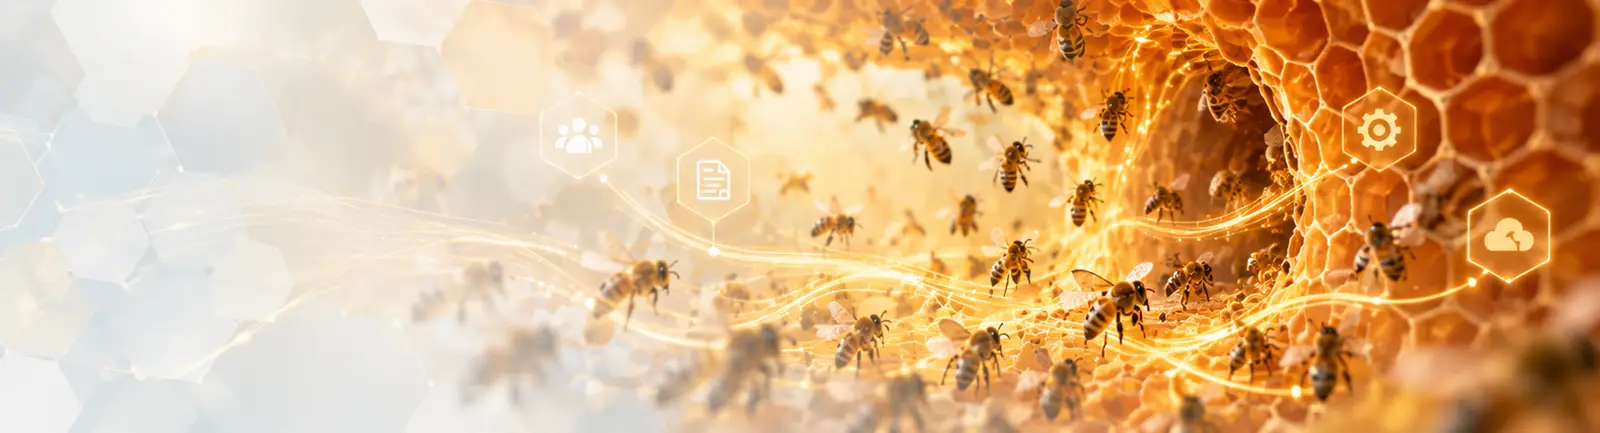
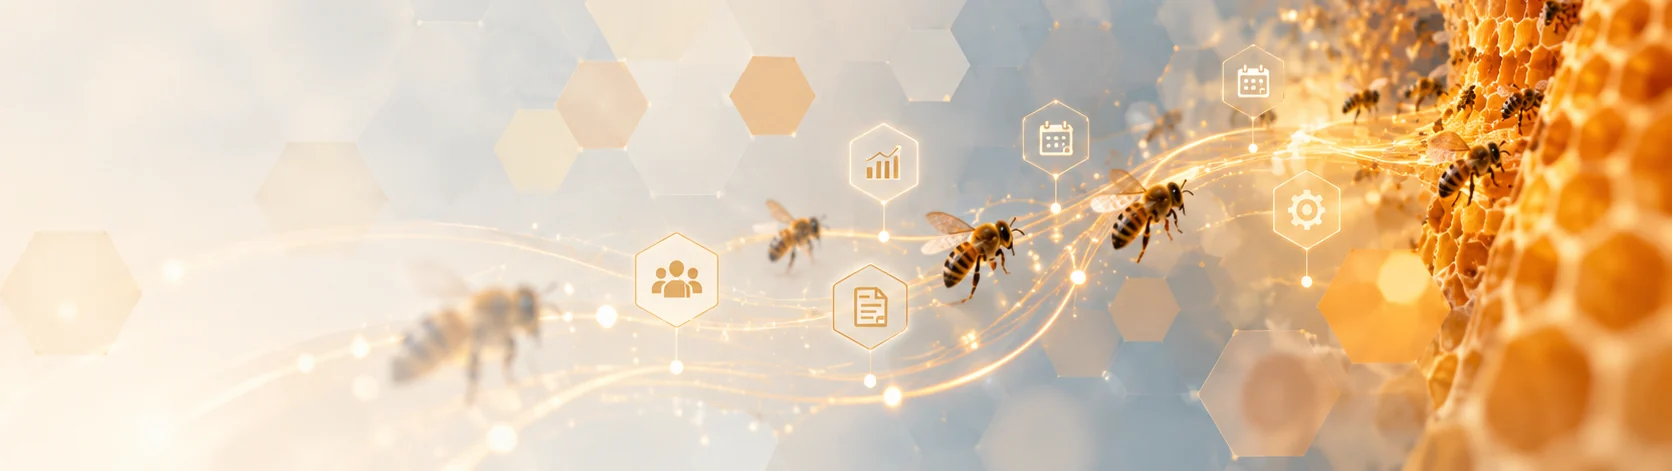
Add files via upload
Website update 4

diff --git a/assets/flow.js b/assets/flow.js
@@ -4,6 +4,9 @@ const hexPts=(cx,cy,r)=>[...Array(6)].map((_,i)=>{const a=Math.PI/180*(60*i-30);
 const G={people:{name:'People',color:'#F4B400',text:'#1b1b1b',msg:'Children, the care team, families and social workers. Each person sees what they are allowed to see and does their part, in one place.',cells:['Children','Care team','Families|& partners']},
 info:{name:'Information',color:'#2F5F94',text:'#fff',msg:'Enter it once and it flows to every place it is needed: the child’s record, documents, case notes and the reports built from them.',cells:['Child|record','Documents','Case notes']},
 proc:{name:'Processes',color:'#F7931E',text:'#1b1b1b',msg:'Admission, IDP, MDT meetings and reviews, through to reunification. Due dates and traffic lights keep every step moving.',cells:['Admission','IDP & MDT','Reunification']}};
+const DET={people:[['Children','Every child has one record: personal details, documents, family, learning, wellbeing and history, in one place.','Children','person'],['Care team','Care workers, therapists and other staff each sign in with their own role and see only what that role allows.','Care|team','team'],['Families & partners','Family contacts and schools are kept with the child, including visits, consents and out-weekends.','Families|& partners','family'],['Social workers','The child’s social worker is recorded on the record, so court dates, reviews and reports always point to the right person.','Social|workers','social'],['Host parents','Host parents and their placements are kept with the family information, next to the child they care for.','Host|parents','host'],['Managers','Administrators set up users and roles, decide who sees what, and see what needs attention on the dashboard.','Managers','manager']],
+info:[['Child record','Details, history and a traffic-light summary for each area. Enter it once and it shows wherever it is needed.','Child|record','record'],['Documents','Court orders, reports and other papers are stored with the child they belong to, not in a separate filing cabinet.','Documents','doc'],['Case notes','Notes, incidents and visits record who wrote them and when. Nothing is deleted, only voided with a reason.','Case|notes','notes'],['Education','School, extra-murals and school reports, including importing a school report instead of typing it in.','Education','edu'],['Health & wellbeing','Medical, therapy and behaviour records. Health details are only shown to people who hold the Medical privilege.','Health &|wellbeing','heart'],['Reports','Ready-made reports and printouts, Excel export, and an optional Report Builder that drafts MDT, panel and DSD reports.','Reports','chart']],
+proc:[['Admission','Admission steps and consents are completed once and carry straight into the child’s record.','Admission','door'],['IDP','Individual development plans have review dates that show as green, amber or red, so nothing is forgotten.','IDP','flag'],['MDT meetings','Multidisciplinary team meetings are planned and recorded, with an optional drafted meeting pack from the child’s record.','MDT|meetings','mdt'],['Court orders','Court orders and their dates are tracked with the child, so a renewal never sneaks up on you.','Court|orders','scales'],['Out-weekends','Out-weekends and visits are planned and recorded, with family contact kept alongside.','Out-|weekends','cal'],['Reunification','The path home is planned and followed step by step until the child goes back to family.','Reunifi-|cation','home']]};
 window.HIVLO_GROUPS=G;
 // hero art
 const h=document.getElementById('heroart');
@@ -12,36 +15,70 @@ if(h){const R=62,cx=200,cy=200;S('polygon',{points:hexPts(cx,cy,R+4),fill:'#F4B4
  const t2=S('text',{x:cx,y:cy+22,'text-anchor':'middle','font-size':12,fill:'#0B2A4A','font-family':'system-ui'},h);t2.textContent='one record';
  const W=Math.sqrt(3)*(R+4)+6,cols=['#F4B400','#2F5F94','#F7931E','#F4B400','#2F5F94','#F7931E'];
  for(let i=0;i<6;i++){const a=Math.PI/180*(60*i);const x=cx+W*Math.cos(a),y=cy+W*Math.sin(a);S('polygon',{points:hexPts(x,y,R-6),fill:cols[i],opacity:.9},h)}
- const beeO=S('g',{transform:'translate(335 62) rotate(-18) scale(1.1)'},h);const bee=S('g',{class:'bee'},beeO);
+ const FP='M340,60 C300,8 180,8 120,50 C40,100 20,200 60,280 C100,360 240,385 320,330 C385,285 385,160 300,130 C240,108 200,150 200,200 C200,250 252,262 282,220 C312,172 362,110 340,60Z';
+ S('path',{d:FP,fill:'none',stroke:'#F4B400','stroke-width':2,'stroke-dasharray':'2 9','stroke-linecap':'round',opacity:.55},h);
+ const beeO=S('g',{},h);S('animateMotion',{dur:'18s',repeatCount:'indefinite',path:FP,calcMode:'spline',keyTimes:'0;1',keySplines:'.2 0 .8 1'},beeO);
+ const beeS=S('g',{transform:'rotate(-8) scale(.8)'},beeO);const bee=S('g',{class:'bee'},beeS);
  bee.innerHTML='<path d="M-34 4Q-52-22-30-36Q-12-24-10-2z" fill="#e9f3ff" stroke="#0B2A4A" stroke-width="3.5" transform="translate(6 -6)"/><path d="M-8-6Q-12-34 12-40Q26-26 14-4z" fill="#e9f3ff" stroke="#0B2A4A" stroke-width="3.5"/><ellipse cx="0" cy="8" rx="30" ry="22" fill="#F4B400" stroke="#0B2A4A" stroke-width="3.5"/><path d="M-10-12Q-14 8-8 28M6-13Q3 8 8 28" stroke="#0B2A4A" stroke-width="7" fill="none" stroke-linecap="round"/><circle cx="31" cy="1" r="13" fill="#0B2A4A"/><circle cx="35" cy="-2" r="3.2" fill="#fff"/><path d="M36-11q4-12 12-12M30-12q0-13 7-17" stroke="#0B2A4A" stroke-width="3" fill="none" stroke-linecap="round"/>'}
 // hive
 const svg=document.getElementById('hive');if(!svg)return;
-const C={x:500,y:330},D=235,R=56,off=60;
-const spec=[['people',-90,[90,210,330]],['info',30,[270,30,150]],['proc',150,[270,30,150]]];
+const ICON={person:'c:12,8,3.4~M5.5 20c0-3.8 2.9-6.2 6.5-6.2s6.5 2.4 6.5 6.2',team:'c:12,8,3~c:5,10.5,2.2~c:19,10.5,2.2~M6.5 19c0-3 2.4-5 5.5-5s5.5 2 5.5 5~M1.5 18c0-2 1.3-3.4 3.2-3.8~M22.5 18c0-2-1.3-3.4-3.2-3.8',family:'c:8,8,2.6~c:16,8,2.6~c:12,15,2~M3.5 18c0-3 2-4.5 4.5-4.5~M20.5 18c0-3-2-4.5-4.5-4.5~M9 21c0-2 1.3-3 3-3s3 1 3 3',social:'c:10,8,3~M4 20c0-3.4 2.6-5.6 6-5.6~M14.5 17l2.2 2.2 4.3-4.6',host:'M3 12l9-8 9 8~M5.5 10.5V20h13v-9.5~c:12,14,2~M8.5 20c0-2 1.5-3 3.5-3s3.5 1 3.5 3',manager:'M12 3l7.5 3v5.5c0 4.5-3 7.8-7.5 9.5-4.5-1.7-7.5-5-7.5-9.5V6z~M8.5 12l2.5 2.5 4.5-5',record:'r:3.5,5,17,14,2~c:9,11,2.2~M6 17c.4-2 5.2-2 6 0~M14 10h4~M14 14h4',doc:'M7 3h7l5 5v13H7z~M14 3v5h5~M10 13h6~M10 17h6',notes:'M4 6h11~M4 11h7~M4 16h5~M13 19l1-4 6-6 3 3-6 6z',edu:'M2 9l10-5 10 5-10 5z~M6 11.5v4c0 1.5 2.7 3 6 3s6-1.5 6-3v-4~M22 9v6',heart:'M12 20.5s-8.5-5-8.5-11A4.6 4.6 0 0 1 12 7a4.6 4.6 0 0 1 8.5 2.5c0 6-8.5 11-8.5 11z',chart:'M4 4v16h16~M8 16v-5~M12 16V8~M16 16v-3',door:'M10 4h8v16h-8~M3 12h10~M10 9l3 3-3 3',flag:'M6 21V4~M6 4h11l-2 4 2 4H6',mdt:'c:12,6,2.6~c:5.5,17,2.6~c:18.5,17,2.6~M10.5 8l-3.6 7~M13.5 8l3.6 7~M8.2 17h7.6',scales:'M12 4v16~M7 20h10~M5 8h14~M5 8l-2.5 6a3 3 0 0 0 5 0z~M19 8l-2.5 6a3 3 0 0 0 5 0z',cal:'r:4,6,16,14,2~M4 10h16~M8 4v4~M16 4v4',home:'M3 12l9-8 9 8~M6 10.5V20h12v-9.5~M10 20v-5h4v5'};
+const defs=S('defs',{},svg);
+const gl=S('filter',{id:'glow',x:'-30%',y:'-30%',width:'160%',height:'160%'},defs);S('feGaussianBlur',{in:'SourceGraphic',stdDeviation:4,result:'b'},gl);const fm=S('feMerge',{},gl);S('feMergeNode',{in:'b'},fm);S('feMergeNode',{in:'SourceGraphic'},fm);
+Object.keys(G).forEach(k=>{const rg=S('radialGradient',{id:'g-'+k,cx:'50%',cy:'40%',r:'75%'},defs);S('stop',{offset:'0%','stop-color':G[k].color,'stop-opacity':.55},rg);S('stop',{offset:'100%','stop-color':'#0B2A4A','stop-opacity':.95},rg)});
+const rgc=S('radialGradient',{id:'g-centre',cx:'50%',cy:'50%',r:'70%'},defs);S('stop',{offset:'0%','stop-color':'#1d4a78'},rgc);S('stop',{offset:'100%','stop-color':'#0B2A4A'},rgc);
+const C={x:500,y:395},D=265,R=44,off=R*1.732+4;
+const spec=[['people',-90],['info',30],['proc',150]];
 const rad=a=>a*Math.PI/180;
-spec.forEach(([k,ang,dirs])=>{const g=G[k],x0=C.x+D*Math.cos(rad(ang)),y0=C.y+D*Math.sin(rad(ang));
+spec.forEach(([k,ang])=>{const g=G[k],x0=C.x+D*Math.cos(rad(ang)),y0=C.y+D*Math.sin(rad(ang));
  const grp=S('g',{'data-g':k,class:'cell'},svg);
- // flow paths (curved, slightly bowed)
  const mx=(x0+C.x)/2+ (k==='info'?-30:k==='proc'?30:0),my=(y0+C.y)/2;
  const pid='p-'+k,fw=S('path',{id:pid,d:`M${x0},${y0} Q${mx},${my} ${C.x},${C.y}`,fill:'none',stroke:g.color,'stroke-width':3,'stroke-dasharray':'2 9','stroke-linecap':'round',opacity:.7},grp);
  const rv=S('path',{id:pid+'r',d:`M${C.x},${C.y} Q${mx},${my} ${x0},${y0}`,fill:'none',stroke:'none'},grp);
  [[pid,0],[pid+'r',1.6]].forEach(([id,b])=>{const d=S('circle',{r:6,fill:g.color,stroke:'#fff','stroke-width':2,class:'dot'},grp);const m=S('animateMotion',{dur:'3.2s',repeatCount:'indefinite',begin:b+'s'},d);S('mpath',{href:'#'+id},m)});
- dirs.forEach((d,i)=>{const x=x0+off*Math.cos(rad(d)),y=y0+off*Math.sin(rad(d));
-  S('polygon',{points:hexPts(x,y,R),fill:g.color,stroke:'#fff','stroke-width':3},grp);
-  const parts=g.cells[i].split('|');parts.forEach((p,j)=>{const t=S('text',{x,y:y+4+(j-(parts.length-1)/2)*16,'text-anchor':'middle','font-size':14,'font-weight':700,fill:g.text},grp);t.textContent=p})});
- const lab=S('text',{x:x0,y:y0+(ang===-90?-100:ang===30?100:100),'text-anchor':'middle','font-size':0},grp)});
+ // cluster label hex in the middle
+ S('polygon',{points:hexPts(x0,y0,R),fill:g.color,stroke:'#FFD54A','stroke-width':3,filter:'url(#glow)'},grp);
+ const lt=S('text',{x:x0,y:y0+5,'text-anchor':'middle','font-size':14,'font-weight':800,fill:k==='info'?'#fff':'#0B2A4A'},grp);lt.textContent=g.name==='Information'?'Info':g.name;
+ [0,60,120,180,240,300].forEach((d,i)=>{const x=x0+off*Math.cos(rad(d)),y=y0+off*Math.sin(rad(d));
+  const pg=S('g',{class:'hxg'},grp),pop=S('g',{class:'pop'},pg);
+  S('polygon',{points:hexPts(x,y,R),fill:'url(#g-'+k+')',stroke:'#F4B400','stroke-width':2.5,filter:'url(#glow)',class:'hxp'},pop);
+  const ic=S('g',{transform:`translate(${x-8.6} ${y-28}) scale(.72)`,fill:'none',stroke:'#FFD54A','stroke-width':1.9,'stroke-linecap':'round','stroke-linejoin':'round'},pop);
+  (ICON[DET[k][i][3]]||'').split('~').forEach(sh=>{if(!sh)return;if(sh.startsWith('c:')){const [cx,cy,r]=sh.slice(2).split(',');S('circle',{cx,cy,r},ic)}else if(sh.startsWith('r:')){const [rx,ry,w,h,rr]=sh.slice(2).split(',');S('rect',{x:rx,y:ry,width:w,height:h,rx:rr},ic)}else S('path',{d:sh},ic)});
+  const parts=DET[k][i][2].split('|'),base=y+(parts.length===1?14:8);
+  parts.forEach((p,j)=>{const t=S('text',{x,y:base+j*12,'text-anchor':'middle','font-size':11,'font-weight':700,fill:'#fff'},pop);t.textContent=p});
+  const hit=S('polygon',{points:hexPts(x,y,R),fill:'rgba(0,0,0,0)',class:'hx','data-k':k,'data-i':i,tabindex:0,role:'button','aria-label':DET[k][i][0]+': '+DET[k][i][1]},pg);
+  hit._pop=pop;hit._x=x;hit._y=y;hit._dx=Math.cos(rad(d))*16;hit._dy=Math.sin(rad(d))*16;
+  hit.addEventListener('pointerenter',()=>hot(hit));hit.addEventListener('pointerleave',()=>cool());hit.addEventListener('focus',()=>hot(hit));hit.addEventListener('blur',()=>cool());
+  hit.onclick=()=>{hot(hit);pick(k,i)};hit.onkeydown=e=>{if(e.key==='Enter'||e.key===' '){e.preventDefault();pick(k,i)}}});});
+
+const tip=document.createElement('div');tip.className='hxtip';tip.hidden=true;svg.parentNode.style.position='relative';svg.parentNode.appendChild(tip);
+const top=S('g',{style:'pointer-events:none'},svg);let cur=null;
+function hot(h){if(cur===h)return;cool();cur=h;const k=h.dataset.k,i=h.dataset.i;h.parentNode.classList.add('hot');
+ const c=h._pop.cloneNode(true);c.classList.add('lift');c.style.setProperty('--dx',h._dx+'px');c.style.setProperty('--dy',h._dy+'px');top.appendChild(c);requestAnimationFrame(()=>requestAnimationFrame(()=>c.classList.add('go')));
+ tip.textContent='';const t=document.createElement('strong');t.textContent=DET[k][i][0];const p=document.createElement('span');p.textContent=DET[k][i][1];tip.append(t,p);tip.style.borderLeftColor=G[k].color;tip.hidden=false;
+ const sr=svg.getBoundingClientRect(),pr=svg.parentNode.getBoundingClientRect(),sc=sr.width/1000;
+ const cx=sr.left-pr.left+(h._x+h._dx)*sc,cy=sr.top-pr.top+(h._y+h._dy+30)*sc,w=Math.min(270,pr.width-24);tip.style.width=w+'px';
+ const hw=44*1.2*sc,right=cx<pr.width/2;let left=right?cx+hw+10:cx-hw-10-w;left=Math.max(8,Math.min(pr.width-w-8,left));
+ tip.style.left=left+'px';tip.style.top=Math.max(8,Math.min(pr.height-tip.offsetHeight-8,cy-tip.offsetHeight/2))+'px'}
+function cool(){if(!cur)return;cur.parentNode.classList.remove('hot');cur=null;top.textContent='';tip.hidden=true}
+document.addEventListener('pointerdown',e=>{if(!svg.contains(e.target))cool()});
 // centre
-const ctr=S('g',{},svg);S('polygon',{points:hexPts(C.x,C.y,78),fill:'#0B2A4A',stroke:'#F4B400','stroke-width':5},ctr);
+const ctr=S('g',{},svg);S('polygon',{points:hexPts(C.x,C.y,78),fill:'url(#g-centre)',stroke:'#FFD54A','stroke-width':4,filter:'url(#glow)'},ctr);
 let t=S('text',{x:C.x,y:C.y-4,'text-anchor':'middle','font-size':22,'font-weight':800,fill:'#F4B400'},ctr);t.textContent='HIVLO CMP';
 t=S('text',{x:C.x,y:C.y+18,'text-anchor':'middle','font-size':12,fill:'#cfdcf5'},ctr);t.textContent='one connected record';
 // buttons + mobile list
 const bar=document.getElementById('flowbtns'),msg=document.getElementById('flowmsg'),list=document.getElementById('flowlist');
-function pick(k){bar.querySelectorAll('button').forEach(b=>b.setAttribute('aria-pressed',String(b.dataset.k===k)));
+function pick(k,i){bar.querySelectorAll('button').forEach(b=>b.setAttribute('aria-pressed',String(b.dataset.k===k)));
  svg.querySelectorAll('.cell').forEach(c=>c.classList.toggle('dim',k!=='all'&&c.dataset.g!==k));
- msg.textContent=k==='all'?'Choose People, Information or Processes to see how each one flows through HIVLO CMP.':G[k].msg}
+ svg.querySelectorAll('.hx').forEach(h=>h.parentNode.classList.toggle('sel',h.dataset.k===k&&String(h.dataset.i)===String(i)));
+ msg.textContent='';
+ if(k==='all'){msg.textContent='Choose People, Information or Processes, or click any hexagon, to see how it flows through HIVLO CMP.';return}
+ const p=document.createElement('span');p.textContent=G[k].msg;msg.appendChild(p);
+ if(i!==undefined){const d=document.createElement('span');d.className='cdet';const st=document.createElement('strong');st.textContent=DET[k][i][0];d.appendChild(st);d.appendChild(document.createTextNode(' '+DET[k][i][1]));msg.appendChild(d)}
+ else{const d=document.createElement('span');d.className='cdet hint';d.textContent='Click a hexagon for more detail.';msg.appendChild(d)}}
 [['all','All']].concat(Object.keys(G).map(k=>[k,G[k].name])).forEach(([k,n])=>{const b=document.createElement('button');b.type='button';b.dataset.k=k;b.setAttribute('aria-pressed','false');
  if(k!=='all'){const i=document.createElement('i');i.style.background=G[k].color;b.appendChild(i)}b.appendChild(document.createTextNode(n));b.onclick=()=>pick(k);bar.appendChild(b)});
 Object.keys(G).forEach(k=>{const c=document.createElement('div');c.className='card';const h3=document.createElement('h3'),i=document.createElement('i');i.style.background=G[k].color;h3.appendChild(i);h3.appendChild(document.createTextNode(G[k].name));
- const p=document.createElement('p');p.textContent=G[k].msg;const q=document.createElement('p');q.style.marginTop='6px';q.textContent=G[k].cells.map(x=>x.replace('|',' ')).join(' · ');c.append(h3,p,q);list.appendChild(c)});
+ const p=document.createElement('p');p.textContent=G[k].msg;const q=document.createElement('p');q.style.marginTop='6px';c.append(h3,p);DET[k].forEach(([t,d])=>{const r=document.createElement('p');r.style.marginTop='8px';const b=document.createElement('strong');b.textContent=t;r.appendChild(b);r.appendChild(document.createTextNode(' '+d));c.appendChild(r)});list.appendChild(c)});
 pick('all');
 })();

diff --git a/download.html b/download.html
@@ -2,12 +2,24 @@
 <title>Download HIVLO</title><meta name="description" content="Download and install HIVLO, or update an existing installation."><link rel="icon" type="image/png" sizes="32x32" href="assets/img/favicon-32.png"><link rel="apple-touch-icon" href="assets/img/favicon-180.png"><link rel="stylesheet" href="assets/style.css"></head><body>
 <header class="site"><div class="wrap"><a class="brand" href="index.html" aria-label="HIVLO Technologies, home"><img src="assets/img/hivlo-logo-reversed.png" alt="HIVLO" height="54" style="height:54px;width:auto;display:block"><small>TECHNOLOGIES</small></a><nav><a href="index.html">Home</a><a href="cmp.html">HIVLO CMP</a><a href="download.html" aria-current=page>Products</a><a href="index.html#contact">Contact</a></nav></div></header>
 
-<section><div class="wrap"><h1 style="margin:0 0 6px">Products</h1><p class="lead">HIVLO CMP is a licensed product made up of a core system and optional packs. Pricing is on request.</p>
+<section class="imgsec" style="padding:64px 0;background-image:url(assets/img/hero-cmp.webp);--ov:rgba(11,42,74,.9)"><div class="wrap"><p class="eyebrow">Products and service</p><h1 style="color:#fff;margin:0 0 12px;font-size:clamp(30px,5vw,46px);max-width:20ch">Less paperwork. More time for the children.</h1><p class="lead" style="max-width:60ch;font-size:19px">HIVLO CMP replaces paper files and spreadsheets with one connected system that runs on your own server. We set it up, we train your team, and we keep it running.</p><a class="btn" href="mailto:info@hivlo.co.za?subject=HIVLO%20CMP%20demonstration&body=Hello%2C%0A%0AI%20would%20like%20to%20see%20HIVLO%20CMP.%0A%0ACentre%20name%3A%0AContact%20person%3A%0APhone%3A%0A">Book a demonstration</a><a class="btn ghost" href="#products">See what is included</a></div></section>
+
+<section><div class="wrap"><h2>What changes when everything is in one place</h2><p class="lead">Care staff already work hard. HIVLO takes the admin off their plate and keeps the record honest.</p>
 <div class="grid">
-<div class="card star"><div class="ico">1</div><h3>HIVLO CMP (core product)</h3><p>The case-management system for a child and youth care centre: children, case management, family, learning, wellbeing, calendar, reports and administration. Required for the packs. One licence covers your server, with any number of users and PCs.</p></div>
-<div class="card"><div class="ico">2</div><h3>Inventory pack</h3><p>Stationery and stock control, added to the core product.</p></div>
-<div class="card"><div class="ico">3</div><h3>Assistant and Report Builder pack</h3><p>Builds MDT packs, panel reports and DSD progress reports, and answers questions about a child in plain words. Optional AI wording help is off by default and runs locally only.</p></div></div>
-<div class="card" style="margin-top:18px"><h3>How we work</h3><p>HIVLO technicians build your server, install the system, set it up, administer it and train your staff. There is nothing for you to download or install yourself, and updates are installed by HIVLO as needed.</p></div>
-<p style="margin-top:14px">Questions and quotes: <a href="mailto:info@hivlo.co.za">info@hivlo.co.za</a>. Existing customers: <a href="mailto:support@hivlo.co.za">support@hivlo.co.za</a>.</p></div></section>
-<footer><div class="wrap">© HIVLO Technologies · the official HIVLO website · HIVLO CMP System<br>Questions: <a href="mailto:info@hivlo.co.za">info@hivlo.co.za</a> · Support for customers: <a href="mailto:support@hivlo.co.za">support@hivlo.co.za</a><br>Built for child and youth care centres. This site holds product information, release notes and download information only. It never holds children's information.</div></footer>
+<div class="card"><div class="ico">1</div><h3>Nothing falls through the cracks</h3><p>Court orders, IDP reviews, medical follow-ups and meetings carry due dates and show up as green, amber or red, so the urgent work is always visible.</p></div>
+<div class="card"><div class="ico">2</div><h3>Report time drops</h3><p>MDT packs, panel reports and DSD progress reports start as a drafted first version built from the child's own record, with the source of every fact shown.</p></div>
+<div class="card"><div class="ico">3</div><h3>Ready for audits and inspections</h3><p>Nothing is deleted, only voided with a reason. Every change records who and when, so your records can be trusted.</p></div>
+<div class="card"><div class="ico">4</div><h3>Children's information stays private</h3><p>It lives on a server at your centre, not in someone else's cloud. Each person sees only what their role allows.</p></div></div></div></section>
+
+<section id="products" style="padding-top:0"><div class="wrap"><h2>Choose what your centre needs</h2><p class="lead">Start with the core product, then add packs when you are ready. One licence covers your server, with any number of users and PCs.</p>
+<div class="prod">
+<div class="card star"><span class="pill">Core product</span><h3>HIVLO CMP</h3><p>The complete case-management system for a child and youth care centre.</p><ul class="ticks"><li>One record per child: details, documents, family, learning, wellbeing and history</li><li>Admission, IDP, court orders, case notes, visits, consents, movements and MDT meetings</li><li>Traffic-light summary for every child</li><li>Family contacts, host parents, genogram, out-weekends and reunification</li><li>Education, medical, therapy, behaviour and incident records, with school report import</li><li>Calendar, staff, ready-made reports and Excel export</li><li>Built-in Help that answers questions asked in your own words</li></ul></div>
+<div class="card"><span class="pill">Pack</span><h3>Inventory</h3><p>Know what you have, what it is worth and what you will need.</p><ul class="ticks"><li>Dry goods stock with the value of every item, purchased or donated</li><li>Food parcels in set sizes, with packing checklists and printed parcels</li><li>Stock takes: count, upload, review the differences, confirm</li><li>Forecasts so you buy ahead, not in a panic</li><li>Reports on spend, donations and parcels given out</li></ul></div>
+<div class="card"><span class="pill">Pack</span><h3>Assistant and Report Builder</h3><p>Get the answers and documents you need, without the typing.</p><ul class="ticks"><li>Build your own reports from children in care, admissions and exits, education, IDP reviews, court orders and medical follow-ups</li><li>Charts, anonymised output, printing and Excel, with 16 ready-made reports</li><li>Ask in your own words: type a sentence and HIVLO sets up the report for you to check</li><li>Child assistant: a first draft of an MDT pack, panel report or DSD progress report, with where each fact came from</li><li>Optional AI wording help is off by default and runs only on your own network</li></ul></div></div></div></section>
+
+<section style="padding-top:0"><div class="wrap"><h2>We do the hard part</h2><p class="lead">There is nothing for you to download or set up yourself. HIVLO technicians look after everything.</p>
+<ol class="journey" style="padding:0;grid-template-columns:repeat(5,1fr)"><li><b>Plan</b><span>We learn how your centre works and what you need.</span></li><li><b>Install</b><span>We build your server and install HIVLO CMP.</span></li><li><b>Set up</b><span>We configure your users, sections, lists and licence.</span></li><li><b>Train</b><span>We train your staff in plain words, on a test child.</span></li><li><b>Look after</b><span>We install updates for you, with a backup taken first.</span></li></ol></div></section>
+
+<section class="imgsec" style="background-image:url(assets/img/band-a.webp);--ov:rgba(11,42,74,.92)"><div class="wrap"><h2>See it with your own eyes</h2><p class="lead" style="max-width:60ch">A short demonstration shows how a child moves through HIVLO, from admission to reunification. Ask for a quote for your centre at the same time.</p><a class="btn" href="mailto:info@hivlo.co.za?subject=HIVLO%20CMP%20quote%20and%20demonstration&body=Hello%2C%0A%0APlease%20contact%20me%20about%20HIVLO%20CMP.%0A%0ACentre%20name%3A%0ANumber%20of%20children%20in%20care%3A%0AContact%20person%3A%0APhone%3A%0A">Request a quote and demonstration</a><p style="margin:14px 0 0;font-size:14px;color:#a8bde3">Or write to <a href="mailto:info@hivlo.co.za">info@hivlo.co.za</a>. Existing customers: <a href="mailto:support@hivlo.co.za">support@hivlo.co.za</a>.</p></div></section>
+<footer><div class="wrap">© HIVLO Technologies · the official HIVLO website · HIVLO CMP System<br>Questions: <a href="mailto:info@hivlo.co.za">info@hivlo.co.za</a> · Support for customers: <a href="mailto:support@hivlo.co.za">support@hivlo.co.za</a><br>Built for child and youth care centres. This site holds product information only. It never holds children's information.</div></footer>
 <script src="assets/app.js"></script></body></html>

diff --git a/assets/style.css b/assets/style.css
@@ -72,8 +72,8 @@ footer{background:var(--navy);color:#9db2d8;padding:28px 0;font-size:14px;margin
 /* ---- company home + image backgrounds ---- */
 .brand small{font-weight:600;font-size:11px;letter-spacing:.2em;color:#9db2d8;margin-left:2px;align-self:flex-end;padding-bottom:3px}
 @media (max-width:520px){.brand small{display:none}}
-.hero-co{background:#eaf1fa url(img/hero-home.webp) 70% center/cover no-repeat;position:relative;color:var(--navy)}
-.hero-co::before{content:"";position:absolute;inset:0;background:linear-gradient(90deg,rgba(255,255,255,.93) 0,rgba(255,255,255,.85) 38%,rgba(255,255,255,.1) 75%)}
+.hero-co{background:#eaf1fa url(img/hero-home.webp) 85% center/cover no-repeat;position:relative;color:var(--navy)}
+.hero-co::before{content:"";position:absolute;inset:0;background:linear-gradient(90deg,rgba(255,255,255,.88) 0,rgba(255,255,255,.72) 36%,rgba(255,255,255,0) 66%)}
 .hero-co .wrap{position:relative;padding-top:72px;padding-bottom:80px}
 .hero-co img.logo{width:min(440px,86%);height:auto;display:block;margin:0 0 20px}
 .hero-co h1{font-size:clamp(28px,4.4vw,44px);line-height:1.1;margin:0 0 10px;color:var(--navy)}
@@ -97,3 +97,27 @@ footer{background:var(--navy);color:#9db2d8;padding:28px 0;font-size:14px;margin
 .flowsec .flow button{background:rgba(255,255,255,.92);color:#0B2A4A}.flowsec .flow button[aria-pressed=true]{background:var(--gold);border-color:var(--gold);color:#1a1a1a}
 .imgsec a.btn{color:#1a1a1a}.imgsec a.btn.ghost{color:#fff}
 header.site .wrap{min-height:72px}
+
+.prod{display:grid;gap:16px;grid-template-columns:1.2fr 1fr 1fr;align-items:stretch}
+.prod .card h3{margin:8px 0 4px}.prod .card>p{color:var(--mute);margin:0 0 10px}
+.prod .card.star{border:2px solid var(--gold)}
+ul.ticks{list-style:none;margin:0;padding:0;display:grid;gap:8px}
+ul.ticks li{position:relative;padding-left:24px;font-size:15px}
+ul.ticks li::before{content:"";position:absolute;left:2px;top:7px;width:9px;height:9px;background:var(--gold);transform:rotate(45deg);border-radius:2px}
+@media (max-width:900px){.prod{grid-template-columns:1fr}}
+
+#hive .hx{cursor:pointer;transition:filter .2s}#hive .hx:hover,#hive .hx:focus{filter:brightness(1.12);outline:none}#hive .hx.sel{stroke:#0B2A4A;stroke-width:6}
+.flowmsg{display:grid;gap:8px;min-height:7em}.flowmsg .cdet{display:block;background:#f3f6fa;border-left:4px solid var(--gold);border-radius:8px;padding:10px 14px;color:var(--ink)}.flowmsg .cdet.hint{background:none;border:0;padding:0;font-style:italic}
+
+.flowsec .flowbox{background:radial-gradient(900px 500px at 50% 45%,rgba(60,40,0,.55),rgba(6,22,40,.92));border-color:rgba(244,180,0,.4)}
+.flowsec .flowmsg{color:#d5e1f8}.flowsec .flowmsg .cdet{background:rgba(255,255,255,.08);color:#fff}
+#hive .hx.sel{stroke:#fff;stroke-width:4}#hive .hx:hover,#hive .hx:focus{filter:url(#glow) brightness(1.25)}
+
+#hive .hxg .pop{transition:opacity .2s}#hive .hxg.hot .pop{opacity:.15}
+#hive .hxg.sel .hxp{stroke:#fff;stroke-width:4}#hive .hx:hover,#hive .hx:focus{filter:none;outline:none}
+#hive .lift{transition:transform .22s cubic-bezier(.2,.8,.3,1.2);transform-box:fill-box;transform-origin:center}
+#hive .lift.go{transform:translate(var(--dx),var(--dy)) scale(1.2)}
+#hive .lift .hxp{stroke:#FFD54A;stroke-width:3.5}
+.hxtip{position:absolute;z-index:5;background:rgba(6,22,40,.96);color:#e8effc;border:1px solid rgba(244,180,0,.55);border-left:5px solid var(--gold);border-radius:10px;padding:12px 14px;box-shadow:0 8px 26px rgba(0,0,0,.45);pointer-events:none;font-size:14px;line-height:1.45}
+.hxtip strong{display:block;color:#FFD54A;font-size:16px;margin-bottom:4px}
+@media (prefers-reduced-motion:reduce){#hive .lift{transition:none}}

diff --git a/cmp.html b/cmp.html
@@ -12,7 +12,7 @@
 <section id="flow" class="imgsec flowsec" style="background-image:url(assets/img/flow-bg.webp);--ov:rgba(11,42,74,.84)"><div class="wrap"><h2>The Hive Flow</h2>
 <p class="lead">In a busy care centre, people, information and processes should move together. HIVLO CMP is the hive they all pass through, so nothing is typed twice and nothing gets lost.</p>
 <div class="flow" id="flowbtns" role="group" aria-label="Choose what flows"></div>
-<div class="flowbox"><svg id="hive" viewBox="0 0 1000 560" role="img" aria-label="Diagram: people, information and processes each flow into and out of HIVLO CMP at the centre"></svg><p class="flowmsg" id="flowmsg" aria-live="polite"></p></div>
+<div class="flowbox"><svg id="hive" viewBox="0 -30 1000 720" role="img" aria-label="Diagram: people, information and processes each flow into and out of HIVLO CMP at the centre"></svg><p class="flowmsg" id="flowmsg" aria-live="polite"></p></div>
 <div class="flowlist" id="flowlist"></div></div></section>
 <section style="padding-top:0"><div class="wrap"><h2>One child's journey, one flow</h2><p class="lead">From the first day to going home, each step lives in the same record and hands over to the next.</p>
 <ol class="journey" style="padding:0">
@@ -27,5 +27,5 @@
 <div class="family"><div class="card star"><h3>HIVLO CMP</h3><p>The core system: children, case management, family, learning, wellbeing, calendar, reports and administration.</p></div>
 <div class="card"><h3>Inventory pack</h3><p>Stationery and stock, plus clothing inventory per child.</p></div>
 <div class="card"><h3>Report Builder pack</h3><p>Custom reports, and the Child assistant that drafts MDT, panel and DSD reports with every fact sourced.</p></div></div></div></section>
-<section class="imgsec" style="margin-top:30px;background-image:url(assets/img/band-b.webp);--ov:rgba(11,42,74,.95)"><div class="wrap"><h2>Your information stays yours</h2><p class="lead">HIVLO CMP runs on a server at your centre, not in someone else's cloud. This website only offers the program and its release notes. No child information is ever sent to it. Updates are digitally signed, so HIVLO CMP refuses any file that did not come from the official supplier.</p></div></section><footer><div class="wrap">© HIVLO Technologies · the official HIVLO website · HIVLO CMP System<br>Questions: <a href="mailto:info@hivlo.co.za">info@hivlo.co.za</a> · Support for customers: <a href="mailto:support@hivlo.co.za">support@hivlo.co.za</a><br>Built for child and youth care centres. This site holds product information, release notes and download information only. It never holds children's information.</div></footer>
+<section class="imgsec" style="margin-top:30px;background-image:url(assets/img/band-b.webp);--ov:rgba(11,42,74,.95)"><div class="wrap"><h2>Your information stays yours</h2><p class="lead">HIVLO CMP runs on a server at your centre, not in someone else's cloud. This website only offers the program and its release notes. No child information is ever sent to it. Updates are digitally signed, so HIVLO CMP refuses any file that did not come from the official supplier.</p></div></section><footer><div class="wrap">© HIVLO Technologies · the official HIVLO website · HIVLO CMP System<br>Questions: <a href="mailto:info@hivlo.co.za">info@hivlo.co.za</a> · Support for customers: <a href="mailto:support@hivlo.co.za">support@hivlo.co.za</a><br>Built for child and youth care centres. This site holds product information only. It never holds children's information.</div></footer>
 <script src="assets/app.js"></script><script src="assets/flow.js"></script></body></html>

diff --git a/index.html b/index.html
@@ -21,5 +21,5 @@
 <section id="contact" class="imgsec" style="margin-top:30px;background-image:url(assets/img/band-a.webp);--ov:rgba(11,42,74,.95)"><div class="wrap"><h2>Get in touch</h2><p class="lead">Questions about HIVLO, or want to see HIVLO CMP in action? We would be glad to hear from you.</p>
 <div class="contact"><div class="card"><h3>General enquiries</h3><p>Buying HIVLO CMP, quotes, demonstrations and partnerships.</p><a href="mailto:info@hivlo.co.za">info@hivlo.co.za</a></div>
 <div class="card"><h3>Support for customers</h3><p>Help with installing, updating or using HIVLO CMP. Include your build number.</p><a href="mailto:support@hivlo.co.za">support@hivlo.co.za</a></div></div></div></section>
-<footer><div class="wrap">© HIVLO Technologies · the official HIVLO website · HIVLO CMP System<br>Questions: <a href="mailto:info@hivlo.co.za">info@hivlo.co.za</a> · Support for customers: <a href="mailto:support@hivlo.co.za">support@hivlo.co.za</a><br>Built for child and youth care centres. This site holds product information, release notes and download information only. It never holds children's information.</div></footer>
+<footer><div class="wrap">© HIVLO Technologies · the official HIVLO website · HIVLO CMP System<br>Questions: <a href="mailto:info@hivlo.co.za">info@hivlo.co.za</a> · Support for customers: <a href="mailto:support@hivlo.co.za">support@hivlo.co.za</a><br>Built for child and youth care centres. This site holds product information only. It never holds children's information.</div></footer>
 <script src="assets/app.js"></script><script src="assets/flow.js"></script></body></html>

diff --git a/updates.html b/updates.html
@@ -3,5 +3,5 @@
 <header class="site"><div class="wrap"><a class="brand" href="index.html" aria-label="HIVLO Technologies, home"><img src="assets/img/hivlo-logo-reversed.png" alt="HIVLO" height="54" style="height:54px;width:auto;display:block"><small>TECHNOLOGIES</small></a><nav><a href="index.html">Home</a><a href="cmp.html">HIVLO CMP</a><a href="download.html">Products</a><a href="index.html#contact">Contact</a></nav></div></header>
 
 <section><div class="wrap"><h1 style="margin:0 0 6px">Updates</h1><p class="lead">What changed in each release, newest first. Updates are installed for you by HIVLO.</p><div id="allReleases"></div></div></section>
-<footer><div class="wrap">© HIVLO Technologies · the official HIVLO website · HIVLO CMP System<br>Questions: <a href="mailto:info@hivlo.co.za">info@hivlo.co.za</a> · Support for customers: <a href="mailto:support@hivlo.co.za">support@hivlo.co.za</a><br>Built for child and youth care centres. This site holds product information, release notes and download information only. It never holds children's information.</div></footer>
+<footer><div class="wrap">© HIVLO Technologies · the official HIVLO website · HIVLO CMP System<br>Questions: <a href="mailto:info@hivlo.co.za">info@hivlo.co.za</a> · Support for customers: <a href="mailto:support@hivlo.co.za">support@hivlo.co.za</a><br>Built for child and youth care centres. This site holds product information only. It never holds children's information.</div></footer>
 <script src="assets/app.js"></script></body></html>
